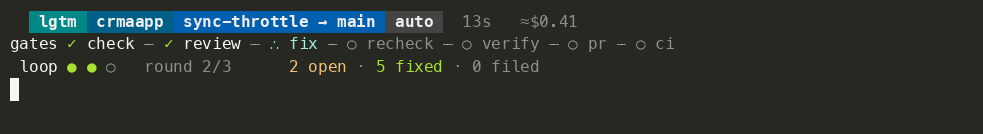
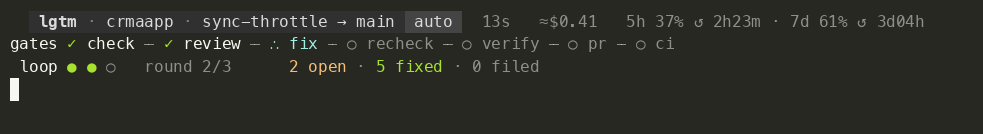
Status bar: one dark strip, percentages back, sparkline capped and dimmed

Changed region(s): [[0.0305, 0.0597, 0.6104, 0.2687], [0.6409, 0.1194, 0.9461, 0.209]]

diff --git a/internal/render/render.go b/internal/render/render.go
@@ -30,35 +30,41 @@ type Style struct {
 	Cols  int
 }
 
-// seg is a filled background block: white-on-color text with a space of
-// padding either side, the powerline idiom without the arrow glyphs.
-func (s Style) seg(bg, text string) string {
-	if !s.Color {
-		return "[" + text + "]"
-	}
-	return "\033[48;5;" + bg + ";38;5;255;1m " + text + " \033[0m"
-}
-
-// meter is a ten-cell usage bar colored by how full it is.
-func meter(pct int, st Style) string {
-	n := max(min(pct/10, 10), 0)
-	col := dim
-	switch {
-	case pct >= 90:
-		col = bad
-	case pct >= 70:
-		col = warn
-	case pct > 0:
-		col = good
-	}
-	return st.c(col, strings.Repeat("▰", n)) + st.c(dim, strings.Repeat("▱", 10-n))
-}
-
 func (s Style) c(code, text string) string {
 	if !s.Color || text == "" {
 		return text
 	}
 	return "\033[" + code + "m" + text + "\033[0m"
+}
+
+// seg is a filled background block: white-on-color text with a space of
+// padding either side, the powerline idiom without the arrow glyphs.
+func (s Style) seg(bg, text string) string {
+	if !s.Color {
+		return "[" + stripCSI(text) + "]"
+	}
+	// inner resets (\033[0m) would drop the background mid-segment; re-arm
+	// the background after each one
+	on := "\033[48;5;" + bg + ";38;5;253m"
+	return on + " " + strings.ReplaceAll(text, "\033[0m", "\033[0m"+on) + " \033[0m"
+}
+
+// stripCSI is the visible text of a styled string.
+func stripCSI(s string) string {
+	var b strings.Builder
+	for i := 0; i < len(s); {
+		if s[i] == 0x1b {
+			j := i + 1
+			for j < len(s) && !(s[j] >= '@' && s[j] <= '~') {
+				j++
+			}
+			i = j + 1
+			continue
+		}
+		b.WriteByte(s[i])
+		i++
+	}
+	return b.String()
 }
 
 const (
@@ -103,14 +109,23 @@ func (p *PlanUsage) render(st Style, now time.Time, resets bool) string {
 	if p == nil {
 		return ""
 	}
+	col := func(pct int) string {
+		switch {
+		case pct >= 90:
+			return bad
+		case pct >= 70:
+			return warn
+		}
+		return dim
+	}
 	win := func(label string, pct int, reset time.Time) string {
-		s := st.c(dim, label+" ") + meter(pct, st) + st.c(dim, fmt.Sprintf(" %d%%", pct))
+		s := st.c(col(pct), fmt.Sprintf("%s %d%%", label, pct))
 		if resets && !reset.IsZero() && reset.After(now) {
 			s += st.c(dim, " ↺ "+until(reset.Sub(now)))
 		}
 		return s
 	}
-	return win("5h", p.FiveHourPct, p.FiveHourReset) + "   " + win("7d", p.SevenDayPct, p.SevenDayReset)
+	return win("5h", p.FiveHourPct, p.FiveHourReset) + st.c(dim, " · ") + win("7d", p.SevenDayPct, p.SevenDayReset)
 }
 
 // until is a compact "time from now": 42m, 2h23m, 3d04h.
@@ -151,25 +166,26 @@ func Render(in Input, st Style) string {
 	}
 }
 
-// Segment colors: the wordmark, the repo, the branch, and one for the state.
+// Segment colors. The strip is one dark block so it reads as a single label;
+// only the state segment changes color, and only when it has news.
 const (
-	bgMark   = "30"  // teal
-	bgRepo   = "24"  // deep blue
-	bgBranch = "25"  // blue
-	bgQuiet  = "238" // gray: idle, auto, manual
-	bgGood   = "28"  // green: passed
-	bgWarn   = "130" // amber: needs you
-	bgBad    = "124" // red: failed, stale
+	bgStrip = "236" // near-black: lgtm · repo · branch
+	bgQuiet = "238" // gray: idle, auto, manual
+	bgGood  = "22"  // green: passed
+	bgWarn  = "130" // amber: needs you
+	bgBad   = "88"  // red: failed, stale
 )
 
-// header is the segment strip every layout starts with: lgtm, the repo when
-// known, the ref, then the state in a color that says how it's going.
+// header is the strip every layout starts with: lgtm, the repo when known,
+// and the ref on one dark block, then the state in a color that says how
+// it's going.
 func header(in Input, ref, state, stateBg string, st Style) string {
-	h := st.seg(bgMark, "lgtm")
+	label := st.c(bold, "lgtm")
 	if in.Repo != "" {
-		h += st.seg(bgRepo, in.Repo)
+		label += st.c(dim, " · ") + in.Repo
 	}
-	return h + st.seg(bgBranch, ref) + st.seg(stateBg, state)
+	label += st.c(dim, " · ") + ref
+	return st.seg(bgStrip, label) + st.seg(stateBg, state)
 }
 
 func idle(in Input, st Style) string {
@@ -234,9 +250,10 @@ func sparkRow(h []run.Summary, today int, st Style) string {
 	for _, s := range h {
 		// min-max so the shortest run is ▁ and the longest █; a flat history
 		// sits mid-height rather than pretending to be fast
-		lvl := 3
+		// capped at ▅ so the tallest bar still leaves air under the row above
+		lvl := 2
 		if hi > lo {
-			lvl = int(float64(s.Duration-lo) / float64(hi-lo) * 7)
+			lvl = int(float64(s.Duration-lo) / float64(hi-lo) * 4)
 		}
 		ch := string([]rune(spark)[lvl])
 		switch s.Outcome {
@@ -245,7 +262,7 @@ func sparkRow(h []run.Summary, today int, st Style) string {
 		case run.Failed:
 			ch = st.c(bad, ch)
 		default:
-			ch = st.c(good, ch)
+			ch = st.c(dim, ch)
 		}
 		b.WriteString(ch)
 	}

diff --git a/internal/render/render_test.go b/internal/render/render_test.go
@@ -105,7 +105,7 @@ func TestCIAndIdleAndMulti(t *testing.T) {
 	hist[3].Outcome = run.Held
 	out = Render(Input{History: hist, IdleRef: "main", Now: now}, Style{Cols: 100})
 	ls = lines(out)
-	if len(ls) != 2 || !strings.Contains(ls[0], "[lgtm][main][idle]") || !strings.HasPrefix(ls[1], "      ▁") || !strings.Contains(ls[1], "20 today") || !strings.Contains(ls[1], "streak 16") {
+	if len(ls) != 2 || !strings.Contains(ls[0], "[lgtm · main][idle]") || !strings.HasPrefix(ls[1], "      ▁") || !strings.Contains(ls[1], "20 today") || !strings.Contains(ls[1], "streak 16") {
 		t.Fatalf("idle layout:\n%s", out)
 	}
 	// with a repo: name in the header, its last run on the second row
@@ -113,7 +113,7 @@ func TestCIAndIdleAndMulti(t *testing.T) {
 	hist[19].EndedAt = now.Add(-41 * time.Minute)
 	out = Render(Input{History: hist, IdleRef: "main", Repo: "crmaapp", RepoKey: "/r/.git", Now: now}, Style{Cols: 100})
 	ls = lines(out)
-	if !strings.Contains(ls[0], "[lgtm][crmaapp][main][idle]") || !strings.HasPrefix(ls[1], "      sync-throttle ✓ 3 found · 2 fixed  41m ago      ▁") {
+	if !strings.Contains(ls[0], "[lgtm · crmaapp · main][idle]") || !strings.HasPrefix(ls[1], "      sync-throttle ✓ 3 found · 2 fixed  41m ago      ▁") {
 		t.Fatalf("idle with repo:\n%s", out)
 	}
 	if w := width(ls[1]); w > 100 {
@@ -148,13 +148,13 @@ func TestPlanUsageInHeader(t *testing.T) {
 	plan := &PlanUsage{FiveHourPct: 37, SevenDayPct: 85, FiveHourReset: now.Add(2*time.Hour + 23*time.Minute), SevenDayReset: now.Add(76 * time.Hour)}
 	out := Render(Input{Runs: []*run.Run{discoverRun()}, Now: now, Plan: plan}, Style{Cols: 160})
 	l := lines(out)[0]
-	if !strings.Contains(l, "≈$0.09   5h ▰▰▰▱▱▱▱▱▱▱ 37% ↺ 2h23m   7d ▰▰▰▰▰▰▰▰▱▱ 85% ↺ 3d04h") {
+	if !strings.Contains(l, "≈$0.09   5h 37% ↺ 2h23m · 7d 85% ↺ 3d04h") {
 		t.Fatalf("header = %q (width %d)", l, width(l))
 	}
 	// narrower: the reset times go before the meters do
 	l = lines(Render(Input{Runs: []*run.Run{discoverRun()}, Now: now, Plan: plan}, Style{Cols: 120}))[0]
-	if !strings.Contains(l, "5h ▰▰▰▱▱▱▱▱▱▱ 37%   7d") || strings.Contains(l, "↺") {
-		t.Fatalf("120 cols should keep meters, drop resets: %q (width %d)", l, width(l))
+	if !strings.Contains(l, "5h 37%") || !strings.Contains(l, "7d 85%") {
+		t.Fatalf("120 cols should keep the windows: %q (width %d)", l, width(l))
 	}
 }
 
@@ -211,7 +211,7 @@ func TestHeaderFitsWithRepo(t *testing.T) {
 		if width(h) > cols {
 			t.Fatalf("%d cols: header %d wide: %q", cols, width(h), h)
 		}
-		if !strings.Contains(h, "[crmaapp][r2-incremental-cache → main]") {
+		if !strings.Contains(h, "[lgtm · crmaapp · r2-incremental-cache → main]") {
 			t.Fatalf("header = %q", h)
 		}
 	}
